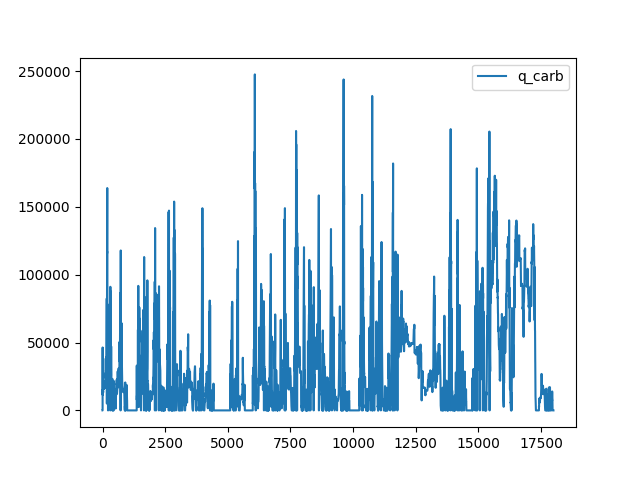
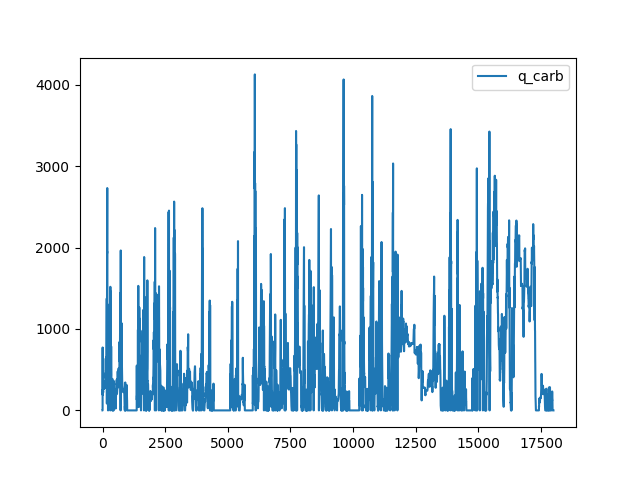
modifié q_carb

diff --git a/src/calculs.py b/src/calculs.py
@@ -134,7 +134,11 @@ def calculRendementEffectifConsoEtCO2():
     """6. Calcul du rendement effectif, de la consommation et du CO2"""
     print("Question 6")
     q_carb = [
-        q_carb_mgcp[i] * n_cyl * valeursGlobales.N_mot[i] / 2 for i in range(nbEtapes)
+        q_carb_mgcp[i]
+        * n_cyl
+        * conversionTrParMinToTrParSec(valeursGlobales.N_mot[i])
+        / 2
+        for i in range(nbEtapes)
     ]
     plot(q_carb, "q_carb")
     P_carb = [q_carb[i] * PCI / 1000 for i in range(nbEtapes)]

diff --git a/src/fonctions.py b/src/fonctions.py
@@ -67,6 +67,13 @@ def conversionSecondeToHeure(seconde):
 assert conversionSecondeToHeure(3600) == 1
 
 
+def conversionTrParMinToTrParSec(tourParMin):
+    return tourParMin / 60
+
+
+assert conversionTrParMinToTrParSec(60) == 1
+
+
 def plot(data, titre):
     plt.figure(titre)
     plt.plot(data, label=titre)
